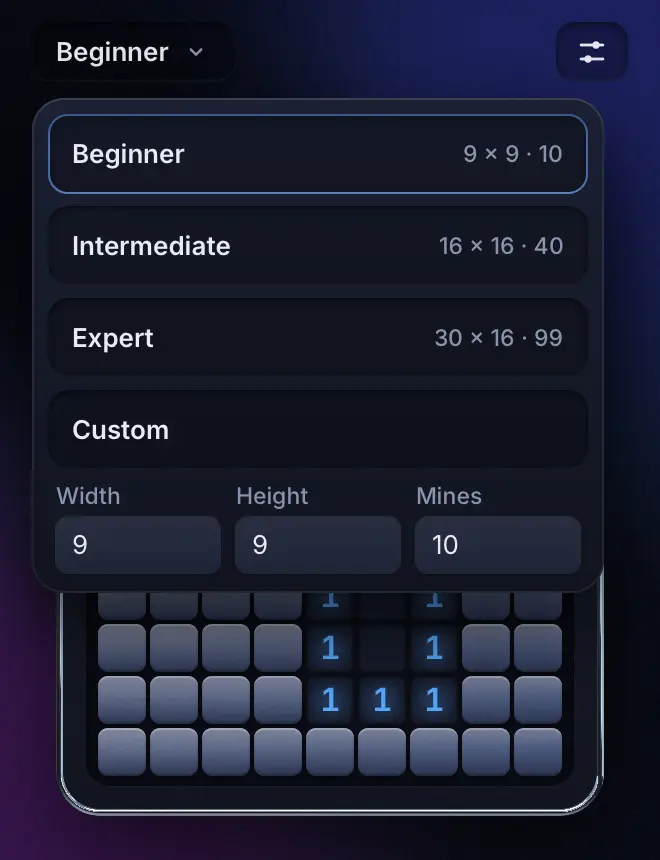
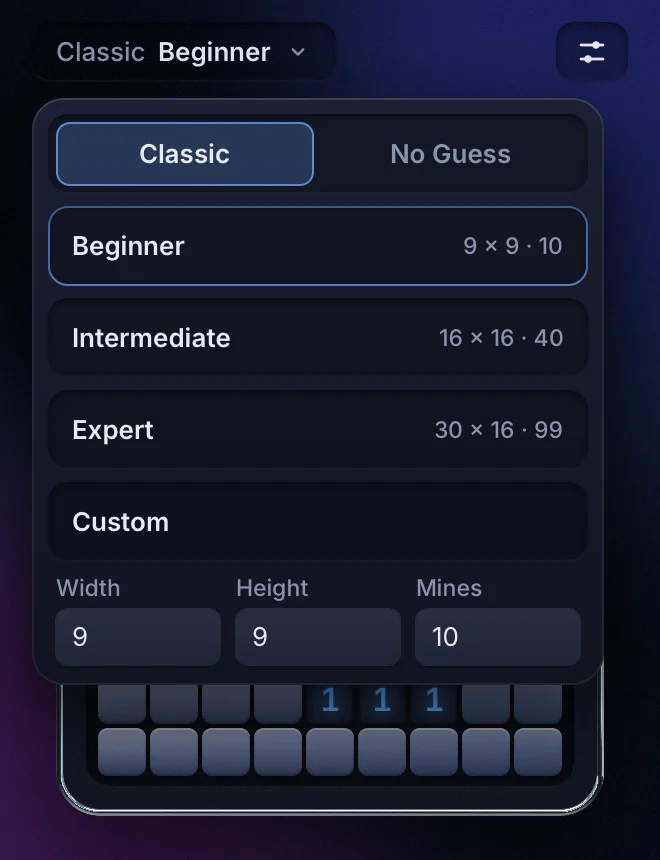
Benchmark No Guess generation: acceptance and p50/p99 per level
bench::no_guess generates seeded No Guess fields (seed and first click
drawn in turn, the click anywhere) and reports the share of uniform fields
accepted, generation time percentiles, and how many the bot then won
without a guess. examples/solver prints it after the Classic table; the
README gives the numbers and the picker picture shows the mode row.

cargo run --release --example solver (1,000 fields per level, seed 1):

  level         accepted  95% Wilson         p50 ms  p99 ms  max ms  no-guess wins
  Beginner        89.85%  87.93% - 91.49%      0.08    0.27    0.85  100.00%
  Intermediate    70.67%  68.25% - 72.98%      0.42    1.82    4.11  100.00%
  Expert          15.33%  14.48% - 16.23%      5.29   30.95   49.44  100.00%

Claude-Session: https://claude.ai/code/session_015t5rc5SNnFMdEsgfNtuQ7n

diff --git a/src/solver/bench.rs b/src/solver/bench.rs
@@ -1,7 +1,7 @@
-//! The solver benchmark: seeded Classic games played by the bot, and the numbers that
-//! describe how it did.
+//! The solver benchmark: seeded Classic games played by the bot, seeded No Guess fields
+//! generated, and the numbers that describe how each went.
 //!
-//! The rule: Classic fields laid from the MSVC `rand()` stream seeded once with `seed`, one
+//! Classic's rule: Classic fields laid from the MSVC `rand()` stream seeded once with `seed`, one
 //! field after another as the game deals them; the first click on the top-left cell, with
 //! XP's first-click relocation. The bot plays every proof, then the cell least likely to be
 //! a mine under uniform odds (it does not model the relocation's bias toward the top left).
@@ -9,7 +9,8 @@
 use std::time::{Duration, Instant};
 
 use super::play;
-use crate::game::{Game, Rng};
+use crate::game::{Game, Mode, Rng};
+use crate::generate::{self, Stream};
 
 /// How the bot did over a run of games.
 #[derive(Clone, Copy, Debug, Default)]
@@ -62,6 +63,55 @@ pub fn classic((w, h, mines): (usize, usize, usize), games: u64, seed: u32) -> T
     t
 }
 
+/// How No Guess generation went over a run of fields.
+#[derive(Clone, Debug, Default)]
+pub struct Generation {
+    pub fields: u64,
+    /// Uniform fields drawn, accepted or not.
+    pub attempts: u64,
+    /// Fields the bot then won without a guess (all of them, if generation is right).
+    pub clean_wins: u64,
+    /// Time to generate each field, ascending.
+    pub times: Vec<Duration>,
+}
+
+impl Generation {
+    /// The share of uniform fields the bot could clear.
+    pub fn acceptance(&self) -> f64 {
+        self.fields as f64 / self.attempts.max(1) as f64
+    }
+    /// The generation time `q` of the way up (0.5 the median), by the nearest rank.
+    pub fn percentile(&self, q: f64) -> Duration {
+        let n = self.times.len();
+        if n == 0 {
+            return Duration::ZERO;
+        }
+        self.times[((q * n as f64).ceil() as usize).clamp(1, n) - 1]
+    }
+}
+
+/// Generates `fields` No Guess fields of `(columns, rows, mines)`: each one's seed and first
+/// click drawn in turn from `seed`, the click anywhere on the field. Each field is then played
+/// by the bot, to check it is won with no guess.
+pub fn no_guess((w, h, mines): (usize, usize, usize), fields: u64, seed: u64) -> Generation {
+    let mut t = Generation::default();
+    let mut draw = Stream::new(seed);
+    for _ in 0..fields {
+        let (field_seed, first) = (draw.next_u64(), draw.below(w * h));
+        let start = Instant::now();
+        let (mut g, attempts) = generate::lay_counting(Mode::NoGuess, (w, h, mines), field_seed, first);
+        t.times.push(start.elapsed());
+        t.fields += 1;
+        t.attempts += attempts as u64;
+        let played = play::play(&mut g, first);
+        if played.won && played.guesses == 0 {
+            t.clean_wins += 1;
+        }
+    }
+    t.times.sort();
+    t
+}
+
 /// The 95% Wilson score interval for `wins` out of `games`, as fractions.
 pub fn wilson(wins: u64, games: u64) -> (f64, f64) {
     if games == 0 {
@@ -93,6 +143,18 @@ mod tests {
     /// The parts of a tally that do not depend on the machine.
     fn counts(t: &Tally) -> (u64, u64, u64, u64) {
         (t.games, t.wins, t.guesses_in_wins, t.clean_wins)
+    }
+
+    #[test]
+    fn no_guess_fields_are_counted_and_every_one_is_won_without_a_guess() {
+        let a = no_guess((9, 9, 10), 40, 5);
+        assert_eq!((a.fields, a.times.len()), (40, 40));
+        assert_eq!(a.clean_wins, 40, "the bot wins every field with no guess");
+        assert!(a.attempts >= 40 && a.acceptance() <= 1.0 && a.acceptance() > 0.0);
+        assert!(a.percentile(0.5) <= a.percentile(0.99));
+        // The same seed draws the same fields.
+        let b = no_guess((9, 9, 10), 40, 5);
+        assert_eq!((a.attempts, a.clean_wins), (b.attempts, b.clean_wins));
     }
 
     #[test]

diff --git a/examples/solver.rs b/examples/solver.rs
@@ -1,22 +1,35 @@
-//! How strong the solver bot is on Classic fields, per level.
-//! `cargo run --release --example solver -- [games per level] [seed]` (defaults: 1000, 1)
+//! How strong the solver bot is on Classic fields, and what No Guess generation costs, per
+//! level. `cargo run --release --example solver -- [games per level] [seed] [No Guess fields]`
+//! (defaults: 1000, 1, 1000)
 //!
-//! Rules: Classic (XP's `rand()` stream, seeded once, one field after another), first click
-//! on the top-left cell with XP's first-click relocation; the same seed gives the same games.
+//! Classic: XP's `rand()` stream, seeded once, one field after another; first click on the
+//! top-left cell with XP's first-click relocation. No Guess: each field's seed and first click
+//! (anywhere on the field) drawn in turn from the seed; uniform fields with the 3×3 around the
+//! click clear are redrawn until the full-strength bot clears one without guessing, and the
+//! bot then plays it to check. The same seed gives the same games and fields.
+use std::time::Duration;
+
 use runesweeper::{
     game::Level,
     solver::bench,
     strings::{Lang, S},
 };
 
+const LEVELS: [Level; 3] = [Level::Beginner, Level::Intermediate, Level::Expert];
+
+fn ms(d: Duration) -> f64 {
+    d.as_secs_f64() * 1000.0
+}
+
 fn main() {
     let mut args = std::env::args().skip(1);
-    let usage = "usage: solver [games per level] [seed]";
+    let usage = "usage: solver [games per level] [seed] [No Guess fields per level]";
     let games: u64 = args.next().map(|a| a.parse().expect(usage)).unwrap_or(1000);
     let seed: u32 = args.next().map(|a| a.parse().expect(usage)).unwrap_or(1);
+    let fields: u64 = args.next().map(|a| a.parse().expect(usage)).unwrap_or(1000);
     println!("Classic, first click top left with XP relocation, {games} games per level, seed {seed}");
     println!("{:<13} {:>7}  {:<17} {:>10} {:>14} {:>9}", "level", "win", "95% Wilson", "guess/win", "no-guess wins", "ms/game");
-    for level in [Level::Beginner, Level::Intermediate, Level::Expert] {
+    for level in LEVELS {
         let t = bench::classic(level.dims().unwrap(), games, seed);
         let (lo, hi) = bench::wilson(t.wins, t.games);
         println!(
@@ -28,6 +41,24 @@ fn main() {
             t.guesses_per_win(),
             100.0 * t.clean_share(),
             t.ms_per_game(),
+        );
+    }
+    println!();
+    println!("No Guess, first click anywhere with its 3×3 clear, {fields} fields per level, seed {seed}");
+    println!("{:<13} {:>10}  {:<17} {:>9} {:>9} {:>9} {:>14}", "level", "accepted", "95% Wilson", "p50 ms", "p99 ms", "max ms", "no-guess wins");
+    for level in LEVELS {
+        let g = bench::no_guess(level.dims().unwrap(), fields, seed as u64);
+        let (lo, hi) = bench::wilson(g.fields, g.attempts);
+        println!(
+            "{:<13} {:>9.2}%  {:>6.2}% – {:>6.2}% {:>9.2} {:>9.2} {:>9.2} {:>13.2}%",
+            S::level(level).get(Lang::En),
+            100.0 * g.acceptance(),
+            100.0 * lo,
+            100.0 * hi,
+            ms(g.percentile(0.5)),
+            ms(g.percentile(0.99)),
+            ms(g.percentile(1.0)),
+            100.0 * g.clean_wins as f64 / g.fields.max(1) as f64,
         );
     }
 }

diff --git a/README.md b/README.md
@@ -18,7 +18,7 @@ and shockwaves.
 </p>
 <p align="center">
   <img src="docs/won.webp" alt="A won game" width="40%">
-  <img src="docs/picker.webp" alt="The Level picker" width="40%">
+  <img src="docs/picker.webp" alt="The Mode and Level picker" width="40%">
 </p>
 
 ## What moves, and what doesn't
@@ -76,8 +76,21 @@ not the rule behind published "safe first click" figures (Tu et al.'s 40.06%, fo
 where the first cell's mine goes anywhere else on the field. The bot's odds assume every
 layout equally likely and ignore the relocation's bias toward the top left.
 
+No Guess draws uniform fields, with the 3×3 around a first click anywhere on the field kept
+clear, until the bot clears one without guessing; there is no time limit and no mine is moved,
+so an accepted field is a uniform draw over the fields logic can finish. Over 1,000 fields per
+level (seed 1, release build, one native core):
+
+| Level | Fields accepted | Generation p50 | p99 |
+| --- | --- | --- | --- |
+| Beginner | 89.9% | 0.08 ms | 0.27 ms |
+| Intermediate | 70.7% | 0.42 ms | 1.8 ms |
+| Expert | 15.3% | 5.3 ms | 31 ms |
+
+The bot then wins every one of them without a guess.
+
 ```sh
-cargo run --release --example solver -- 10000 1   # games per level, seed
+cargo run --release --example solver -- 10000 1 1000   # Classic games per level, seed, No Guess fields
 ```
 
 It prints the same columns for Beginner and Intermediate; the same seed gives the same numbers.
@@ -107,7 +120,8 @@ The same game as Windows Minesweeper:
 - A first click on a mine moves it to the first free square reading from the top left, skipping the last row and column as Windows does. If that area is all mines, nothing happens and the next click is still a first click.
 - The mine counter is mines less flags and goes negative. The timer starts on the first click, at 1, and stops at 999.
 - Losing shows every mine, crosses out wrong flags and marks the one you hit in red. Winning flags the rest.
-- **Toolbar**: the chip on the left shows the Level and opens the picker: Beginner (9×9, 10), Intermediate (16×16, 40), Expert (30×16, 99) or Custom, whose width (9–30), height (9–24) and mines (up to (w−1)(h−1)) are typed in place; Enter or the Custom row starts it. Picking starts a new field at once.
+- **Modes**: Classic (原版) is everything above, unchanged. In **No Guess** (无猜) no mines exist until your first click; the field is then laid with the 3×3 around the click clear, so it always opens an area, and redrawn until perfect logic (the mine count included) can finish it from there. The field is fully determined by mode, level, seed and first click. The timer starts once the field is ready.
+- **Toolbar**: the chip on the left shows the Mode and Level and opens the picker: a row for the Mode, then Beginner (9×9, 10), Intermediate (16×16, 40), Expert (30×16, 99) or Custom, whose width (9–30), height (9–24) and mines (up to (w−1)(h−1)) are typed in place; Enter or the Custom row starts it. Picking starts a new field at once.
 - **Settings** (the button on the right): Marks (?), Color and Language (English or 简体中文). The first launch follows the system language (the browser's on the web): any Chinese locale means 简体中文. Until the MiSans font is bundled, Chinese uses the system's fonts on desktop, and may show as boxes on the web.
 - The face starts a new game. `xyzzy`, then Shift, turns the old corner-pixel cheat on or off.
 
